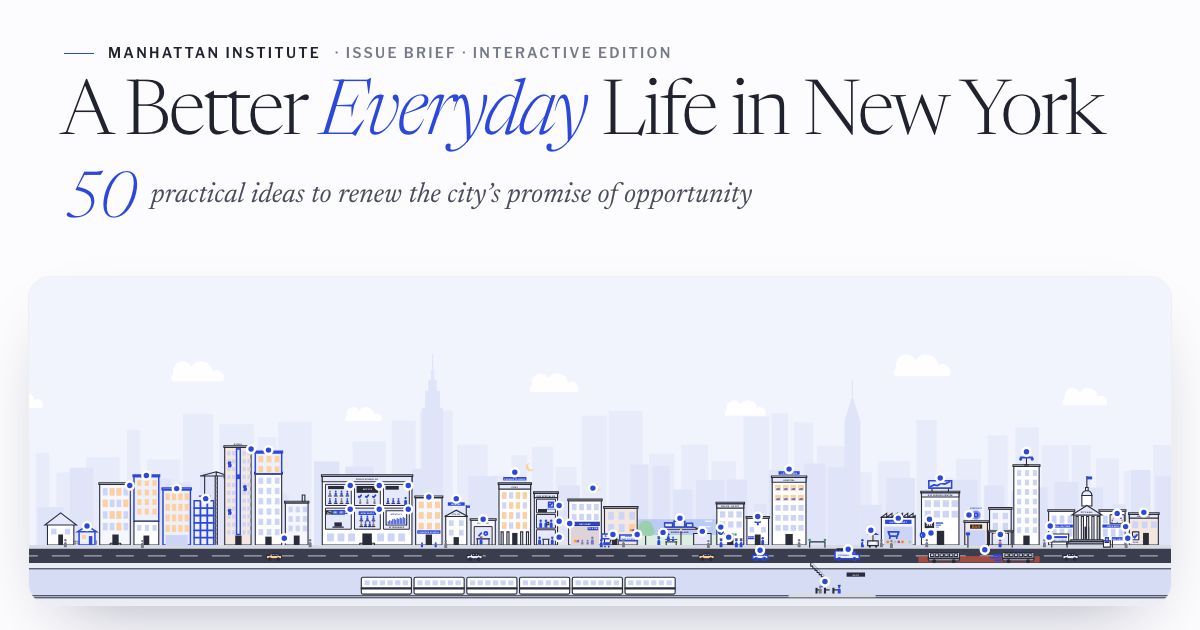
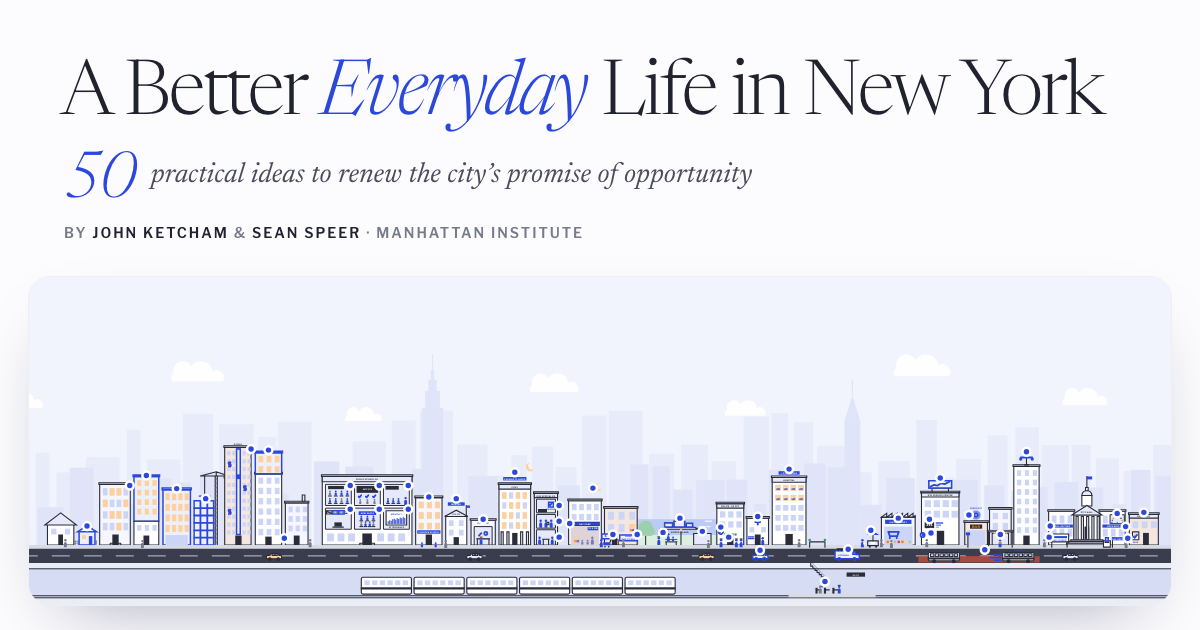
Remove eyebrow labels above headlines
Drops the small uppercase kickers above headings and section titles
(and the label row on the share cards); the Manhattan Institute credit
moves into the byline. Functional labels and figure captions stay.
Link-preview image re-rendered to match.

Changed region(s): [[0.0617, 0.0603, 0.925, 0.2413], [0.0617, 0.2413, 0.6475, 0.3921]]

diff --git a/index.html b/index.html
@@ -148,10 +148,8 @@ h1, h2, h3, h4 { font-family: var(--font-serif); font-weight: 500; line-height: 
 p { margin: 0; text-wrap: pretty; }
 strong { font-weight: 600; }
 em { font-style: italic; }
-.label, .eyebrow { font-family: var(--font-sans); font-size: var(--label); letter-spacing: 0.16em; text-transform: uppercase; font-weight: 600; color: var(--ink-3); }
+.label { font-family: var(--font-sans); font-size: var(--label); letter-spacing: 0.16em; text-transform: uppercase; font-weight: 600; color: var(--ink-3); }
 .label { color: var(--blue); }
-.eyebrow { display: inline-flex; align-items: center; gap: 10px; }
-.eyebrow::before { content: ""; width: 22px; height: 1px; background: currentColor; opacity: 0.7; }
 .sr-only { position: absolute; width: 1px; height: 1px; overflow: hidden; clip: rect(0 0 0 0); white-space: nowrap; }
 .wrap { padding-left: max(20px, env(safe-area-inset-left, 0px)); padding-right: max(20px, env(safe-area-inset-right, 0px)); }
 .skip { position: absolute; left: 12px; top: -60px; z-index: 100; background: var(--blue); color: var(--on-blue); padding: 8px 14px; border-radius: 999px; font-family: var(--font-sans); }
@@ -210,10 +208,6 @@ em { font-style: italic; }
 /* ---------- Generic part chrome ---------- */
 .sheet { position: relative; padding-block: clamp(80px, 11vw, 150px) 0; }
 .sheet-head { max-width: 1240px; margin: 0 auto clamp(36px, 5vw, 64px); display: grid; grid-template-columns: minmax(0, 1fr) auto; gap: 28px 48px; align-items: end; }
-.sheet-head__num { display: flex; align-items: center; gap: 14px; margin-bottom: 18px; flex-wrap: wrap; }
-.tag { font-family: var(--font-serif); font-style: italic; font-size: 1.05rem; font-weight: 400; letter-spacing: 0; color: var(--blue); }
-.kicker { font-family: var(--font-sans); font-size: var(--label); font-weight: 600; letter-spacing: 0.16em; text-transform: uppercase; color: var(--ink-3); display: inline-flex; align-items: center; gap: 12px; }
-.kicker::before { content: ""; width: 28px; height: 1px; background: var(--rule); }
 .sheet-head h2 { font-size: var(--step-3); font-weight: 400; max-width: 16ch; letter-spacing: -0.025em; line-height: 1.02; }
 .sheet-head .dek { margin-top: 18px; font-size: var(--step-1); line-height: 1.45; color: var(--ink-2); max-width: 36ch; font-style: italic; font-weight: 400; }
 .facts-block { font-family: var(--font-sans); font-size: 0.74rem; display: grid; grid-template-columns: auto auto; min-width: 270px; color: var(--ink-2); border-top: 1px solid var(--ink); }
@@ -337,10 +331,6 @@ em { font-style: italic; }
 
 /* ---------- Hero ---------- */
 .hero-title { display: flex; flex-direction: column; gap: 22px; padding-top: clamp(20px, 4vh, 48px); max-width: 33rem; }
-.hero-eyebrow { font-family: var(--font-sans); font-size: var(--label); font-weight: 600; letter-spacing: 0.16em; text-transform: uppercase; color: var(--ink-3); display: inline-flex; align-items: center; gap: 12px; }
-.hero-eyebrow::before { content: ""; width: 28px; height: 1px; background: var(--blue); flex: none; }
-.hero-eyebrow > span { line-height: 1.7; }
-.hero-eyebrow b { color: var(--ink); font-weight: 600; }
 .hero h1 { font-size: var(--step-4); font-weight: 300; line-height: 0.94; letter-spacing: -0.035em; }
 .hero h1 em { color: var(--blue); font-weight: 300; }
 .hero-dek { display: flex; align-items: flex-start; gap: 16px; padding-top: 6px; }
@@ -496,7 +486,6 @@ em { font-style: italic; }
 .idea { gap: 0.8em; }
 .idea__top { display: flex; align-items: flex-end; gap: 14px; }
 .idea__num { font-family: var(--font-serif); font-style: italic; font-weight: 300; font-size: 3.6rem; line-height: 0.78; color: var(--blue); font-variant-numeric: lining-nums tabular-nums; letter-spacing: -0.04em; }
-.idea__area { padding-bottom: 3px; color: var(--ink-3); }
 .idea p { color: var(--ink-2); }
 .idea__foot { display: flex; flex-wrap: wrap; gap: 8px 16px; align-items: center; padding-top: 14px; border-top: 1px solid var(--rule); font-family: var(--font-sans); font-size: 0.72rem; }
 .idea__foot a { font-weight: 500; text-decoration: none; color: var(--ink-3); }
@@ -688,7 +677,6 @@ input[type="range"]::-moz-range-thumb { width: 18px; height: 18px; background: v
 /* ---------- Quiz ---------- */
 .quiz { max-width: 860px; margin: 0 auto; display: flex; flex-direction: column; gap: 16px; }
 .q { border: 1px solid var(--rule-2); background: var(--surface); border-radius: var(--r); box-shadow: 0 16px 34px -30px rgba(20, 22, 58, 0.5); padding: 22px 24px; display: flex; flex-direction: column; gap: 12px; }
-.q__n { font-family: var(--font-sans); font-size: 0.6rem; font-weight: 600; letter-spacing: 0.16em; text-transform: uppercase; color: var(--ink-3); }
 .q h3 { font-size: 1.35rem; font-weight: 400; letter-spacing: -0.01em; }
 .q__opts { display: flex; flex-direction: column; gap: 8px; }
 .q__opts button {
@@ -911,12 +899,11 @@ input[type="range"]::-moz-range-thumb { width: 18px; height: 18px; background: v
     <div class="scrolly__steps">
       <div class="step step--hero" data-state='{"cam":"all","zones":true}'>
         <div class="step__card hero-title">
-          <span class="hero-eyebrow"><span><b>Manhattan Institute</b> · Issue brief · Interactive edition</span></span>
           <h1>A Better <em>Everyday</em> Life in New York</h1>
           <p class="hero-dek"><span class="numeral">50</span><span>practical ideas to renew the city’s promise of opportunity</span></p>
-          <p class="byline"><span>By <b>John Ketcham</b> &amp; <b>Sean Speer</b></span><span>October 20, 2026</span></p>
+          <p class="byline"><span>By <b>John Ketcham</b> &amp; <b>Sean Speer</b></span><span>Manhattan Institute</span><span>October 20, 2026</span></p>
           <aside class="start" aria-labelledby="start-h">
-            <div class="start__head"><h2 id="start-h">Start here</h2><span class="eyebrow">Three ways in</span></div>
+            <div class="start__head"><h2 id="start-h">Start here</h2></div>
             <ol>
               <li><p><b>Read it in order</b>, from the evidence to the ideas, or skip straight to the 50 recommendations.</p><a class="go" href="#homes">Skip to the 50</a></li>
               <li><p><b>Star what you like.</b> Ideas and glossary terms you star collect in a menu you can email to yourself.</p><a class="go" href="#mylist">See my menu</a></li>
@@ -934,7 +921,6 @@ input[type="range"]::-moz-range-thumb { width: 18px; height: 18px; background: v
       </div>
       <div class="step" id="s1" data-state='{"cam":"homes"}'>
         <div class="step__card">
-          <span class="label">Part 01 · Common ground</span>
           <h3>Quality of life isn’t a right-wing cause.</h3>
           <p>Mayor Zohran Mamdani has observed that “quality of life” and “efficiency” came to sound like conservative words, and he warned his own side against ceding the basics of city government because of it.</p>
           <blockquote class="pull"><p>“If politics cannot deliver on the block where you live…”</p><cite>Mayor Zohran Mamdani<a class="fn" href="#n1">1</a></cite></blockquote>
@@ -943,7 +929,6 @@ input[type="range"]::-moz-range-thumb { width: 18px; height: 18px; background: v
       </div>
       <div class="step" data-state='{"cam":"streets"}'>
         <div class="step__card">
-          <span class="label">An old phrase</span>
           <h3>“Quality of life” is broader than its politics.</h3>
           <p>The phrase entered the policy vocabulary in the 1960s and ’70s to name the parts of human welfare that income alone misses: health, housing, education, the environment, the feel of daily life.</p>
           <p>In New York it took on a narrower meaning in the Giuliani years, standing for orderly streets, clean public spaces, and a city government that sweats the small, cumulative stuff.</p>
@@ -951,7 +936,6 @@ input[type="range"]::-moz-range-thumb { width: 18px; height: 18px; background: v
       </div>
       <div class="step" data-state='{"cam":"all","zones":true}'>
         <div class="step__card">
-          <span class="label">The definition</span>
           <h3>The brief uses the broad, practical sense.</h3>
           <p>Quality of life is the set of conditions that decide whether ordinary New Yorkers can build a good life here:</p>
           <ol class="five">
@@ -965,7 +949,6 @@ input[type="range"]::-moz-range-thumb { width: 18px; height: 18px; background: v
       </div>
       <div class="step" data-state='{"cam":"all","alarm":true}'>
         <div class="step__card">
-          <span class="label">The problem</span>
           <h3>Measured that way, the promise is under strain.</h3>
           <p>Jobs that let service and blue-collar workers get ahead have shrunk. Rising incomes have bought most people little. Housing and childcare cost a fortune. Schools and public safety add to the pressure.</p>
           <p>The question underneath: can someone of ordinary means still come to New York and make a better life? The red marks on the block are the problems the brief documents.</p>
@@ -973,7 +956,6 @@ input[type="range"]::-moz-range-thumb { width: 18px; height: 18px; background: v
       </div>
       <div class="step" data-state='{"cam":"all"}'>
         <div class="step__card">
-          <span class="label">This guide</span>
           <h3>First the evidence, then the 50 ideas.</h3>
           <p>Part 02 lays out the numbers behind the brief’s worry. Parts 03 through 09 take the recommendations in order. Each one lands on this block as a numbered pin, and the block changes as you scroll: blue marks what an idea adds, red marks the problem it targets.</p>
           <p>The ideas draw on the Manhattan Institute’s catalog of New York City research. Some are City Hall’s to do alone; others need Albany or another agency.</p>
@@ -988,7 +970,6 @@ input[type="range"]::-moz-range-thumb { width: 18px; height: 18px; background: v
 <section class="sheet wrap" id="evidence">
   <header class="sheet-head">
     <div>
-      <div class="sheet-head__num"><span class="tag">Part 02</span><span class="kicker">The evidence</span></div>
       <h2>Under pressure</h2>
       <p class="dek">Work, income, rent, care, school, safety, and who is leaving. Eight numbers that frame the brief.</p>
     </div>
@@ -1090,7 +1071,6 @@ input[type="range"]::-moz-range-thumb { width: 18px; height: 18px; background: v
     <div class="scrolly__steps">
       <div class="step" data-state='{"ev":0}'>
         <div class="step__card">
-          <span class="label">Work</span>
           <h3>The middle rungs of the job ladder broke first.</h3>
           <p>Between 2019 and 2023, industries paying middle wages shed more than 76,000 jobs, a 4.7% drop, with construction hit hardest. Lower-wage industries grew only 1.5%.<a class="fn" href="#n2">2</a></p>
           <p>Those are the jobs that let people without a professional degree get established and support a family.</p>
@@ -1098,7 +1078,6 @@ input[type="range"]::-moz-range-thumb { width: 18px; height: 18px; background: v
       </div>
       <div class="step" data-state='{"ev":1}'>
         <div class="step__card">
-          <span class="label">Recovery</span>
           <h3>The weakness outlasted the rebound.</h3>
           <p>Six industries were still below their late-2019 employment at the end of 2025, according to the state comptroller.<a class="fn" href="#n4">4</a> Youth unemployment averaged 11.9% in 2025.</p>
           <p>A booming finance or tech sector can’t, by itself, give every New Yorker a route to a good living. Rebuilding the middle class takes a broader base of work and enterprise.<a class="fn" href="#n5">5</a></p>
@@ -1106,7 +1085,6 @@ input[type="range"]::-moz-range-thumb { width: 18px; height: 18px; background: v
       </div>
       <div class="step" data-state='{"ev":2}'>
         <div class="step__card">
-          <span class="label">Income</span>
           <h3>Gains at the top, a flat line below.</h3>
           <p>From 2019 to 2024, real average income per <button class="term" data-term="taxunit">tax unit</button> rose 8.9%. For the bottom 90%, it fell 0.8%; adjusting for the growing share of single filers turns that into a 0.4% gain.<a class="fn" href="#n6">6</a></p>
           <p>Not everyone stood still: the New School found real wage gains in the middle of the pay scale.<a class="fn" href="#n7">7</a> But the city needs more openings for people trying to find work or move up.</p>
@@ -1114,7 +1092,6 @@ input[type="range"]::-moz-range-thumb { width: 18px; height: 18px; background: v
       </div>
       <div class="step" data-state='{"ev":3}'>
         <div class="step__card">
-          <span class="label">Rent</span>
           <h3>Housing ate what raises there were.</h3>
           <p>The city’s <button class="term" data-term="asking">median asking rent</button> hit $3,707 a month in the spring of 2026, more than 30% above 2019: roughly $10,400 more a year.<a class="fn" href="#n8">8</a></p>
           <p>A city that needs electricians and line cooks has to let enough housing get built for them to live near their jobs.</p>
@@ -1122,7 +1099,6 @@ input[type="range"]::-moz-range-thumb { width: 18px; height: 18px; background: v
       </div>
       <div class="step" data-state='{"ev":4}'>
         <div class="step__card">
-          <span class="label">Care</span>
           <h3>Childcare costs as much as a second rent.</h3>
           <p>Infant and toddler care averaged $18,200 a year in family-based settings and $26,000 in centers in 2024.<a class="fn" href="#n9">9</a> Between rent and care, a respectable salary can vanish.</p>
           <p>Costs like these shape whether people have children, start businesses, or stay in New York at all.</p>
@@ -1130,7 +1106,6 @@ input[type="range"]::-moz-range-thumb { width: 18px; height: 18px; background: v
       </div>
       <div class="step" data-state='{"ev":5}'>
         <div class="step__card">
-          <span class="label">Schools</span>
           <h3>Many children simply aren’t in class.</h3>
           <p>In 2023–24, 34.8% of city public-school students were <button class="term" data-term="absent">chronically absent</button>. Among students in temporary housing, 51.7% were.<a class="fn" href="#n10">10</a></p>
           <p>Schools can’t do much for a child who routinely isn’t there. Tap the buttons on the chart to compare.</p>
@@ -1138,7 +1113,6 @@ input[type="range"]::-moz-range-thumb { width: 18px; height: 18px; background: v
       </div>
       <div class="step" data-state='{"ev":6}'>
         <div class="step__card">
-          <span class="label">Safety</span>
           <h3>Fewer murders, but the streets aren’t fixed.</h3>
           <p>Through September 20, preliminary NYPD figures showed murders down 24.4% from the same stretch of 2025, and the <button class="term" data-term="majorseven">seven major crimes</button> down 6.34%.<a class="fn" href="#n11">11</a></p>
           <p>Yet felony assaults sit about 44% above 2019, and subway-system homicides run several times their old average.<a class="fn" href="#n12">12</a><a class="fn" href="#n13">13</a> Disorder and harassment still keep people out of public spaces.</p>
@@ -1146,7 +1120,6 @@ input[type="range"]::-moz-range-thumb { width: 18px; height: 18px; background: v
       </div>
       <div class="step" data-state='{"ev":7}'>
         <div class="step__card">
-          <span class="label">Leaving</span>
           <h3>The families walking out are the middle class.</h3>
           <p>Among families with children under five who left the city in 2023, 51% were middle income, compared with 43% of such families overall.<a class="fn" href="#n14">14</a></p>
           <p>People move for many reasons, so no single policy can be blamed. But City Hall should ask what would make staying more attractive. The answer matters just as much to those who can’t leave.</p>
@@ -1194,7 +1167,6 @@ input[type="range"]::-moz-range-thumb { width: 18px; height: 18px; background: v
     <p class="lede">The brief’s diagnosis is that these conditions are mostly the product of choices.</p>
     <p>Rents are high because decades of zoning and property-tax rules made rental housing hard and costly to build. Disorder lingers where enforcement has slackened. Children miss school when nobody is held responsible for getting them there. Across administrations, City Hall and Albany have left many New Yorkers paying more in taxes for weaker services. The pandemic and national trends, the authors argue, can’t explain why these problems have lasted.</p>
     <aside class="aside">
-      <span class="label">The offer</span>
       <p>The mayor invited fellow progressives to take quality of life seriously. The authors write that they want to help, that agreeing on the goal won’t settle every policy fight, and that if the mayor adopts these ideas and makes progress, they will welcome it.</p>
     </aside>
   </div>
@@ -1204,7 +1176,6 @@ input[type="range"]::-moz-range-thumb { width: 18px; height: 18px; background: v
 <section class="sheet wrap" id="ideas">
   <header class="sheet-head">
     <div>
-      <div class="sheet-head__num"><span class="tag">Parts 03–09</span><span class="kicker">The recommendations</span></div>
       <h2>Fifty ideas, one block</h2>
       <p class="dek">Each idea lands on the block as a pin. Scroll, and watch the street change.</p>
       <div class="swipe-cta"><p>Rather decide quickly? Swipe through all 50, one card at a time.</p><button class="btn btn--solid" type="button" data-open-swipe><svg aria-hidden="true"><use href="#i-swipe"/></svg>Swipe Mode</button></div>
@@ -1231,7 +1202,6 @@ input[type="range"]::-moz-range-thumb { width: 18px; height: 18px; background: v
 <section class="sheet wrap" id="all">
   <header class="sheet-head">
     <div>
-      <div class="sheet-head__num"><span class="tag">Part 10</span><span class="kicker">At a glance</span></div>
       <h2>All 50 on one page</h2>
       <p class="dek">Filter by area or by the partner the brief names. Star the ones you’d do first.</p>
     </div>
@@ -1252,7 +1222,6 @@ input[type="range"]::-moz-range-thumb { width: 18px; height: 18px; background: v
   <div class="menu" id="mylist">
     <div class="menu__head">
       <div>
-        <span class="eyebrow">Your menu</span>
         <h3>Everything you <em>starred</em>, in one place</h3>
         <p>Star ideas and glossary terms anywhere on the page, or run Swipe Mode. It all collects here, stays in this browser, and goes out in one email to yourself.</p>
       </div>
@@ -1279,7 +1248,6 @@ input[type="range"]::-moz-range-thumb { width: 18px; height: 18px; background: v
 <section class="sheet wrap" id="check">
   <header class="sheet-head">
     <div>
-      <div class="sheet-head__num"><span class="tag">Part 11</span><span class="kicker">Check yourself</span></div>
       <h2>What stuck?</h2>
       <p class="dek">Eight questions. Every answer explains itself, so wrong ones teach too.</p>
     </div>
@@ -1299,11 +1267,11 @@ input[type="range"]::-moz-range-thumb { width: 18px; height: 18px; background: v
   <div style="margin-top: clamp(48px, 7vw, 88px)">
     <div class="figure__head" style="max-width:1100px;margin:0 auto 14px"><h3>The argument in five lines</h3></div>
     <div class="takeaways">
-      <div><span class="label">Frame</span><h3>Quality of life is common ground.</h3><p>Work, a home, schools, safe streets, and decent services matter to New Yorkers of every party.</p></div>
-      <div><span class="label">Squeeze</span><h3>Ordinary earners are losing ground.</h3><p>Middle-wage jobs shrank, incomes for most stalled, and rent and childcare climbed.</p></div>
-      <div><span class="label">Basics</span><h3>School and safety come first.</h3><p>A third of students are chronically absent; felony assaults remain far above 2019.</p></div>
-      <div><span class="label">Cause</span><h3>Policy made this.</h3><p>Zoning, taxes, slack enforcement, and weak accountability, set at City Hall and in Albany.</p></div>
-      <div><span class="label">Remedy</span><h3>Fifty practical fixes.</h3><p>Most are City Hall’s to start. Some need Albany, the council, or the MTA.</p></div>
+      <div><h3>Quality of life is common ground.</h3><p>Work, a home, schools, safe streets, and decent services matter to New Yorkers of every party.</p></div>
+      <div><h3>Ordinary earners are losing ground.</h3><p>Middle-wage jobs shrank, incomes for most stalled, and rent and childcare climbed.</p></div>
+      <div><h3>School and safety come first.</h3><p>A third of students are chronically absent; felony assaults remain far above 2019.</p></div>
+      <div><h3>Policy made this.</h3><p>Zoning, taxes, slack enforcement, and weak accountability, set at City Hall and in Albany.</p></div>
+      <div><h3>Fifty practical fixes.</h3><p>Most are City Hall’s to start. Some need Albany, the council, or the MTA.</p></div>
     </div>
   </div>
 </section>
@@ -2108,14 +2076,13 @@ BEL.QUIZ = [
     var html = '';
     BEL.AREAS.forEach(function (a) {
       html += '<div class="step step--chapter" id="' + a.id + '" data-state=\'{"chapter":"' + a.id + '"}\'><div class="step__card chapter">' +
-        '<div class="sheet-head__num"><span class="tag">Part ' + a.num + '</span><span class="kicker">Ideas ' + a.from + '–' + a.to + '</span></div>' +
         '<h2>' + a.name + '</h2><p class="dek">' + a.dek + '</p>' +
         '<div class="chapter__stats">' + a.stats.map(function (s) { return '<div><span class="v">' + s[0] + '</span><span class="k">' + s[1] + '</span></div>'; }).join('') + '</div>' +
         '</div></div>';
       BEL.IDEAS.filter(function (i) { return i.a === a.id; }).forEach(function (i) {
         var note = BEL.NOTES[i.note];
         html += '<div class="step step--idea" id="idea-' + i.n + '" data-state=\'{"idea":' + i.n + '}\'><article class="step__card idea">' +
-          '<div class="idea__top"><span class="idea__num">' + pad(i.n) + '</span><span class="label idea__area">' + a.short + ' · ' + (i.n - a.from + 1) + ' of ' + (a.to - a.from + 1) + '</span></div>' +
+          '<div class="idea__top"><span class="idea__num">' + pad(i.n) + '</span></div>' +
           '<h3>' + i.t + '</h3><p>' + terms(i.d) + '</p>' +
           '<a class="brief-link" href="' + briefLink(i) + '" target="_blank" rel="noopener">Read MI’s exact wording in the full brief ↗</a>' +
           '<div class="idea__foot"><a href="' + note[2] + '" title="' + esc(note[1]) + '">' + esc(note[0]) + ' ↗</a><a href="#n' + i.note + '">Note ' + i.note + '</a>' +
@@ -2124,7 +2091,7 @@ BEL.QUIZ = [
       });
     });
     html += '<div class="step step--chapter" id="ideas-end" data-state=\'{"end":true}\'><div class="step__card chapter">' +
-      '<span class="label">The whole block</span><h2>Fifty ideas, applied</h2>' +
+      '<h2>Fifty ideas, applied</h2>' +
       '<p class="dek">Every dot on the block is a recommendation. Hover one to see which; click to jump back to it.</p>' +
       '<p>The authors present them as an offer: practical steps, most within City Hall’s reach, that any mayor could take, with progress welcomed whoever makes it.</p>' +
       '<div class="btn-row"><a class="btn btn--solid" href="#all">See all 50 on one page</a><button class="btn" type="button" data-open-swipe><svg aria-hidden="true"><use href="#i-swipe"/></svg>Swipe Mode</button></div></div></div>';
@@ -2719,7 +2686,7 @@ BEL.QUIZ = [
     }
     function showResults() {
       var g = M.groups(), left = rest().length;
-      res.innerHTML = '<div class="sw-res"><span class="eyebrow">Swipe Mode</span><h2>Your <em>verdicts</em></h2>' +
+      res.innerHTML = '<div class="sw-res"><h2>Your <em>verdicts</em></h2>' +
         '<p>' + (left ? 'You’ve judged ' + g.total + ' of 50 so far.' : 'You’ve judged all 50 ideas.') + ' These can go in the email from your menu.</p>' +
         '<div class="sw-cols">' + col('c-super', 'Super-liked', g['super']) + col('c-like', 'Liked', g.like) + col('c-nope', 'Passed', g.nope) + '</div>' +
         '<label class="check" style="margin-top:20px"><input type="checkbox" data-sw-include' + (M.include ? ' checked' : '') + (g.total ? '' : ' disabled') + '> Include these in the email to myself</label>' +
@@ -2776,7 +2743,7 @@ BEL.QUIZ = [
     function build() {
       answered = 0; right = 0;
       host.innerHTML = BEL.QUIZ.map(function (q, qi) {
-        return '<div class="q" data-q="' + qi + '"><span class="q__n">Question ' + (qi + 1) + ' of ' + BEL.QUIZ.length + '</span><h3>' + q.q + '</h3>' +
+        return '<div class="q" data-q="' + qi + '"><h3><span class="sr-only">Question ' + (qi + 1) + ' of ' + BEL.QUIZ.length + ': </span>' + q.q + '</h3>' +
           '<div class="q__opts">' + q.o.map(function (o, oi) { return '<button type="button" data-o="' + oi + '"><b>' + 'ABC'[oi] + '</b><span>' + o + '</span></button>'; }).join('') + '</div>' +
           '<p class="q__why" hidden>' + q.why + '</p></div>';
       }).join('');
